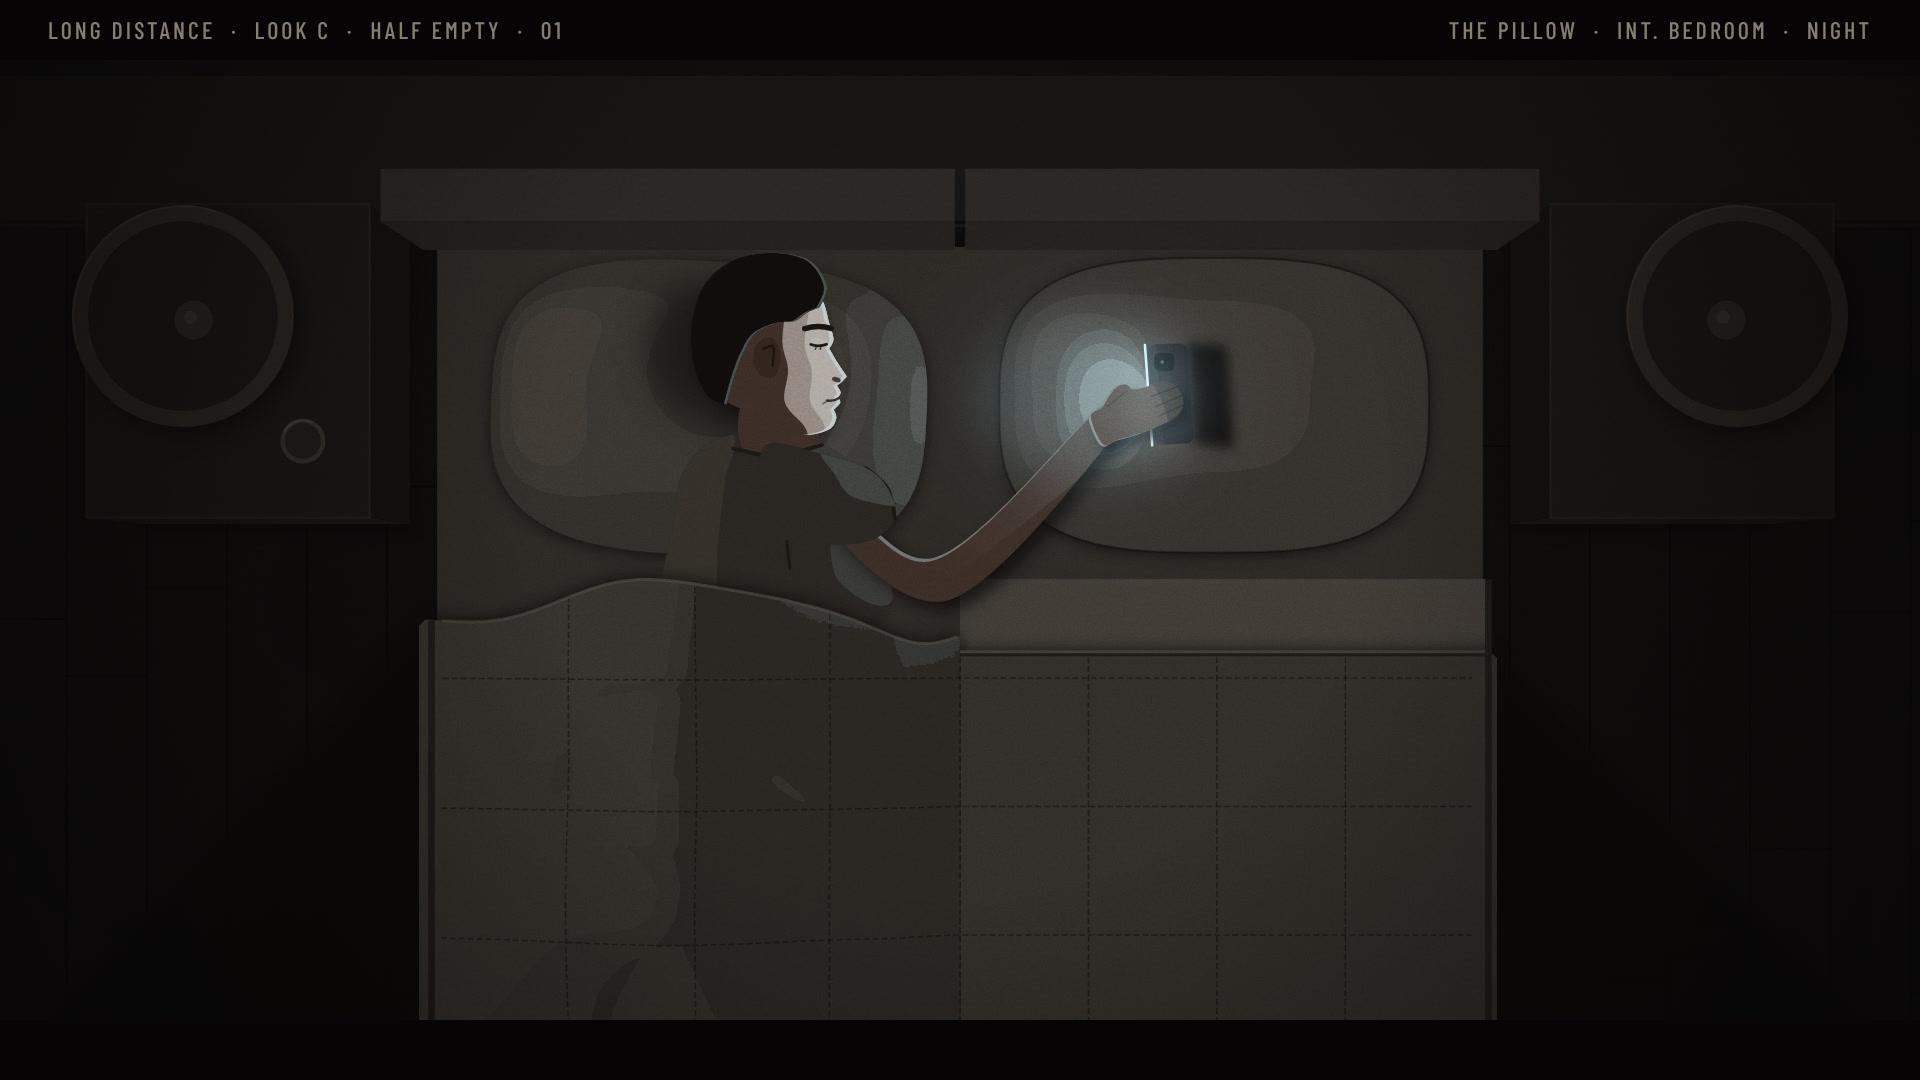
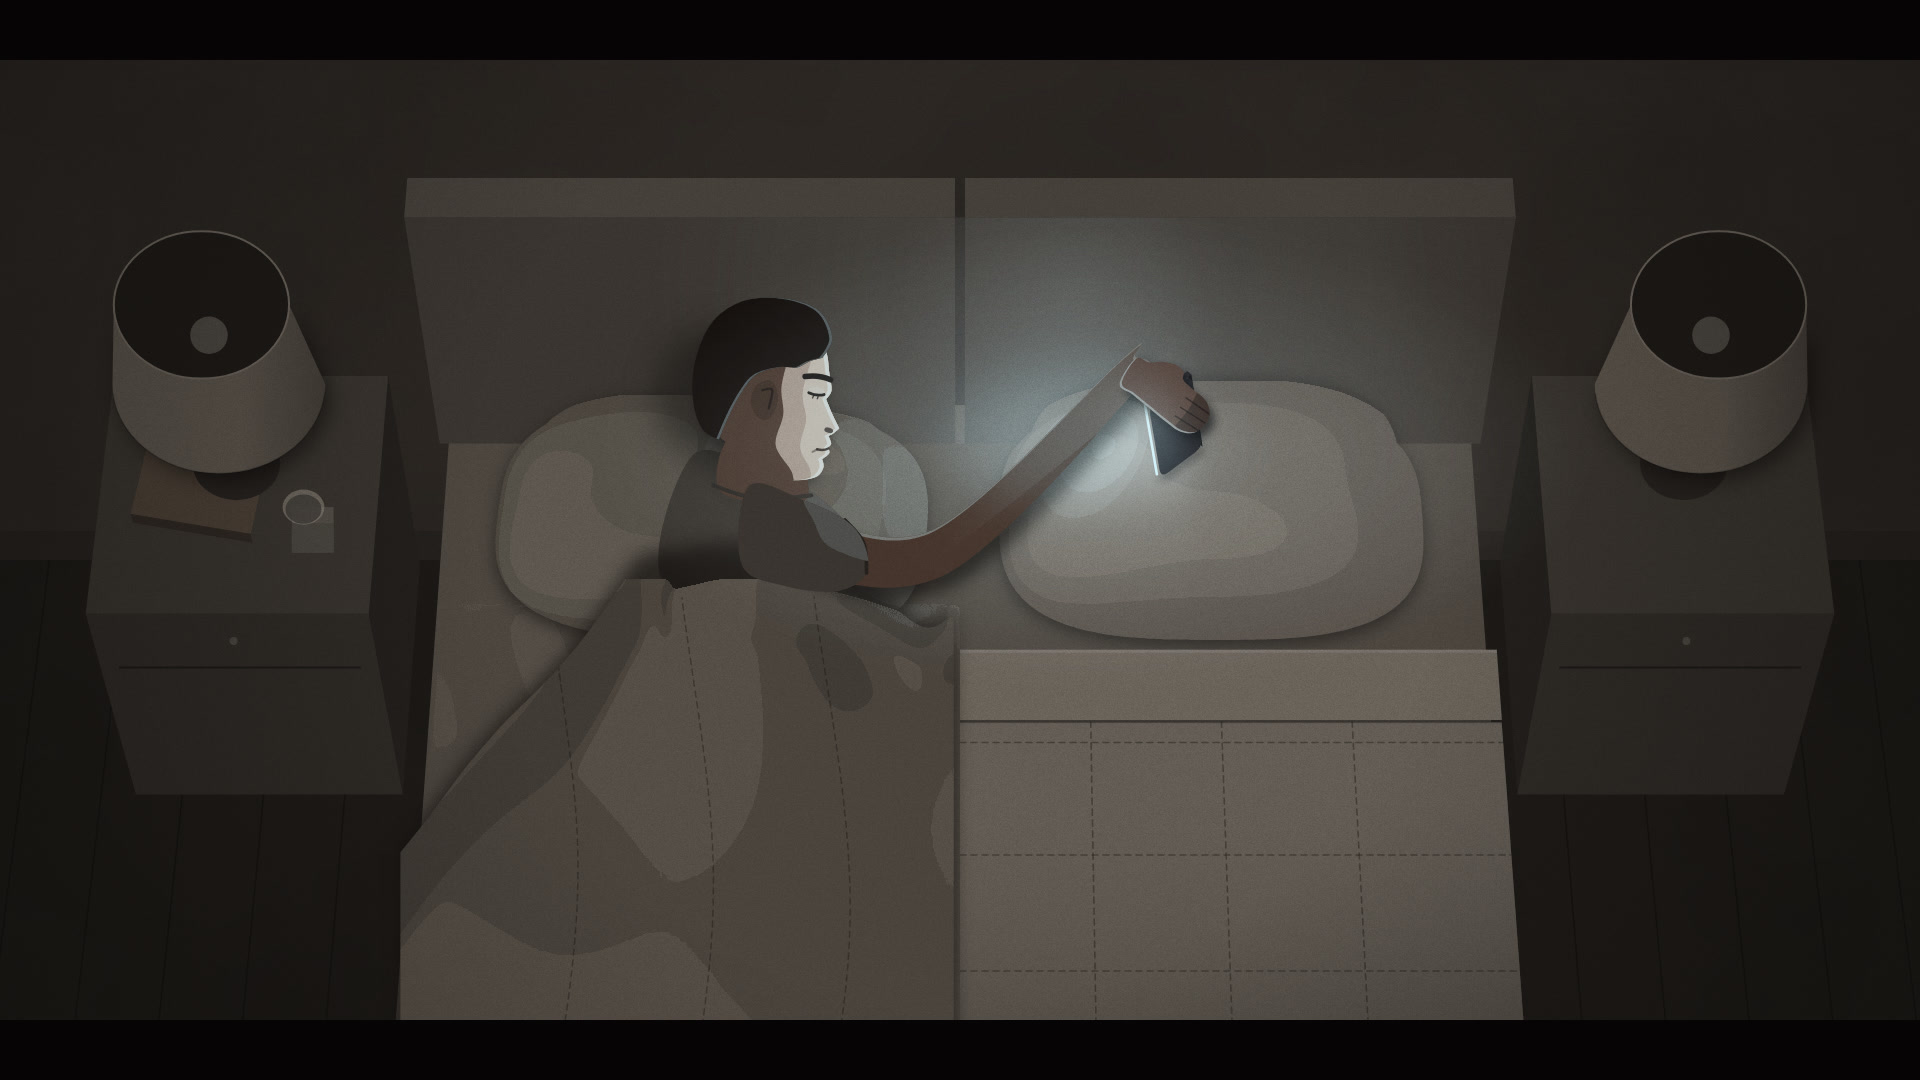
Long Distance: look C, fixes from the first review
No slates; plain 2.00:1 bars. C1: lifted, real lamps, the phone on her
pillow lighting his face, his half rucked and hers tight. C2: profile,
looking at the phone, pan at his chest; a larger, smoother phone image
against the flash-lit strip. C3: restaged with the screen toward him, a
full-strength subtitle, her hand at her nape, his skin and build matched.

Claude-Session: https://claude.ai/code/session_01A8JfgvUzR898ZAVoVKxaGp

diff --git a/claude-film/long-distance/src/C3_between.html b/claude-film/long-distance/src/C3_between.html
@@ -102,7 +102,7 @@
   LC.fill(g, lapF, SM.coatS); LC.fill(g, lapN, SM.coatL); WR(lapN, 1, -0.2, 2.5, LC.mix(SM.coatL, '#FFFFFF', 0.2));
   // her raised arm (her left, our right): attached at the shoulder, the upper arm rising out to the side, the elbow bent up by her head;
   // the forearm runs back behind her head to the nape (we see where it goes behind the hair)
-  const sleeveN = LC.smooth(Ls([[0.52, 0.86], [0.78, 0.62], [0.98, 0.32], [1.12, 0.06], [1.17, -0.06, 1], [1.02, -0.09], [0.78, -0.02], [0.44, 0.12], [0.44, 0.3], [0.76, 0.2], [0.94, 0.17], [0.88, 0.38], [0.72, 0.64], [0.6, 0.9]]));
+  const sleeveN = LC.smooth(Ls([[0.5, 0.86], [0.78, 0.6], [1.0, 0.3], [1.14, 0.04], [1.19, -0.08, 1], [1.02, -0.12], [0.78, -0.04], [0.44, 0.1], [0.44, 0.32], [0.74, 0.24], [0.9, 0.22], [0.84, 0.42], [0.66, 0.68], [0.56, 0.92]]));
   LC.fill(g, sleeveN, SM.coat); within(sleeveN, () => { LC.fill(g, LC.smooth(Ls([[0.86, 0.7], [1.4, 0.0], [1.4, -0.3], [1.1, -0.2], [0.98, 0.24], [0.78, 0.6]])), SM.coatL); LC.fill(g, LC.smooth(Ls([[0.4, 0.0], [1.0, -0.2], [1.0, 0.08], [0.4, 0.2]])), SM.coatS); });
   strokeQ(Ls, [[0.94, 0.17], [1.02, 0.08], [1.06, -0.02]], 'rgba(52,30,22,0.5)', 2);          // the crease where the sleeve folds at the elbow
   // the far arm (her right): the upper arm down and forward from the shoulder, a clear elbow, the forearm rising to a bent wrist and the phone
@@ -213,10 +213,10 @@
     LC.fill(g, skull, HM.skinS);
     within(skull, () => {
       LC.fill(g, LC.smooth(L([[-0.2, -0.62], [0.62, -0.62], [0.62, 0.62], [-0.02, 0.56], [-0.1, 0.42], [-0.18, 0.26], [-0.22, 0.1], [-0.2, -0.08], [-0.24, -0.3]])), HM.skin);
-      LC.fill(g, LC.smooth(L([[0.2, -0.42], [0.62, -0.42], [0.62, 0.52], [0.22, 0.46], [0.28, 0.24], [0.28, 0.02]])), LC.mix(HM.skinL, ICE, 0.42));            // the screen's light on the cheek turned toward her
+      { const Lr = LC.layer(); Lr.fillStyle = LC.mix(HM.skinL, ICE, 0.3); Lr.fill(LC.smooth(L([[0.22, -0.42], [0.62, -0.42], [0.62, 0.52], [0.24, 0.46], [0.3, 0.24], [0.3, 0.02]]))); g.drawImage(LC.blurred(Lr.canvas, 7, false), 0, 0); }            // the screen's light on the cheek turned toward her
       g.fillStyle = 'rgba(30,20,16,0.12)'; g.fill(LC.smooth(L([[-0.14, 0.36], [0.16, 0.38], [0.33, 0.34], [0.3, 0.46], [0.12, 0.53], [-0.12, 0.47]])));
       g.fillStyle = 'rgba(40,26,20,0.18)'; g.beginPath(); const so = L1(-0.03, -0.07); g.ellipse(so[0], so[1], 0.08 * hU, 0.04 * hU, 0.2, 0, 7); g.fill(); });
-    WR(skull, 1, 0.2, 4, LC.mix(HM.skinL, ICE, 0.75), { clip: (() => { const q = new Path2D(); const a = L1(0.15, -0.45); q.rect(a[0], a[1], 400, 400); return q; })() });
+    WR(skull, 1, 0.2, 3, LC.mix(HM.skinL, ICE, 0.55), { clip: (() => { const q = new Path2D(); const a = L1(0.15, -0.45); q.rect(a[0], a[1], 400, 400); return q; })() });
     const ear = LC.smooth(L([[-0.38, -0.07], [-0.29, -0.1], [-0.26, 0.02], [-0.28, 0.16], [-0.35, 0.17], [-0.4, 0.06]])); LC.fill(g, ear, HM.skinD);
     const hair = LC.smooth(L([[0.38, -0.25, 1], [0.4, -0.42], [0.25, -0.58], [-0.02, -0.64], [-0.29, -0.57], [-0.46, -0.36], [-0.49, -0.1], [-0.43, 0.12], [-0.37, 0.06], [-0.34, -0.12], [-0.24, -0.25], [-0.06, -0.33], [0.12, -0.32], [0.27, -0.33]]));
     LC.fill(g, hair, HM.hair); WR(hair, 1, -0.3, 4, HM.hairL);

diff --git a/claude-film/long-distance/design/look_c.md b/claude-film/long-distance/design/look_c.md
@@ -30,37 +30,37 @@ Style frames: `frames/C1_pillow.jpg`, `frames/C2_waterfall.jpg`, `frames/C3_betw
 
 ## Colour script
 
-1. **Night bedroom (opening, C1).** A plan, straight down over the bed. The room is warm black; the bed is a pale island; the only light is the phone on her pillow, low and cold, raking the folds of his half of the quilt and lighting his profile. Her half is dead flat, its stitched squares square.
+1. **Night bedroom (opening, C1).** A long lens high over the foot of the bed, dead centre. The room is warm dark grey; the bed is a pale island between two unlit lamps. His half of the quilt is rucked, its outer corner thrown back over a triangle of creased sheet. Her half is tight and square, the sheet turned down in a straight line. The only light is the phone, standing on her pillow with its back to us and its screen turned to his face; its cold light lands on his profile.
 2. **Bathroom mornings.** An elevation of the basin and mirror in flat pale warm grey (`#C9C1B5`). The glass of two toothbrushes sits on the centre line; his blue one is lifted out of his half, hers stays grey with dust in the empty half. The phone is propped against the mirror on her side; the message is the only cold in the room. "I love you." arrives before his thumb leaves the glass.
 3. **Grey office.** A wide, symmetrical elevation of open-plan dividers (`#8E877C`), with him small at his desk. When he turns the phone face down, the cold disappears from the film for the length of the shot.
 4. **Concrete stairwell.** A plan straight down the stairwell's square spiral (`#7A746C`), with him small on one step and the unopened lunch on the next. The empty half is the empty flight below. The screen's cold falls only on his chin and neck; see Restraint.
 5. **Evening bus.** The one crowded frame. Bodies fill both squares, coats in browns and greys, and the grammar is broken because he is not alone, only lonely. The cold is the crawling waveform. His ears take the film's one red (`#B5574A`), one flat step on the ear shape.
-6. **Living room at night (C2).** An elevation of the kitchen wall under one warm pendant. His half is lit and tiled; her half is dark plaster with the pale rectangle, two mugs, and the phone propped against the salt. The photo-booth strip and the waterfall hang mirrored either side of the centre line, and he has turned his back on the real one.
-7. **The visit, grey daylight (C3).** The same camera and the same wall. The light now comes from a window on her side, and for the first time the empty half is the bright one. She stands in it, in a rust coat, the only warm colour that has entered the flat from outside. The phone's cold is weak in daylight, a small screen in a real room.
+6. **Living room at night (C2).** An elevation of the kitchen wall under one warm pendant. His half is lit and tiled: he stands in profile at the counter, the pan held against his chest, the fork still, looking down at the phone with his mouth stopped on a mouthful. The photo-booth strip is on the fridge behind his back. Her half is dark plaster with the pale rectangle, two mugs, and the phone propped against the salt, turned to him and to us; it is the brightest and smoothest thing in the frame.
+7. **The visit, grey daylight (C3).** The same wall on the same axis, the camera pulled back. The light now comes from a window on her side, and for the first time the empty half is the bright one. She stands in it, in front of the pale rectangle, in a rust coat, the only warm colour that has entered the flat from outside, and holds the phone out to him at the centre line with its screen turned to his face. He stands nearer us in his own half, turned away, head down over the bag. The phone's cold is weak in daylight, but it still lands on his face.
 8. **The last image, the couch.** An elevation of the couch against the same wall at dusk. He lies along his half; the phone rests on the cushion in the empty half beside his face, where a head would be: C1 turned through ninety degrees. The daylight drains out until the screen is again the only light, and he lies down inside it. The strip on the fridge behind him stays in the room's last warm grey.
 
 ## Characters
 
-- **Him.** Thirties, gentle, ordinary. Dark brown hair a few weeks past a haircut, a day's stubble, a soft jaw. An oat cotton shirt worn a day too long: open collar, sleeves rolled, creased across the back. He is drawn with the same profile in all three frames. In C1 we see him from above and he is a profile on the pillow. In C2 we see his back and a lost profile, the line of cheek and jaw catching the screen. In C3 he is three-quarters, eyes down, brows lifted at the inner ends: shame, not menace. His hands carry it: the hand laid over the phone like a hand on a sleeping shoulder; the pan lowered and forgotten; the thumb on the broken zip.
+- **Him.** Thirties, gentle, ordinary. Dark brown hair a few weeks past a haircut, a day's stubble, a soft jaw. An oat cotton shirt worn a day too long: open collar, sleeves rolled, creased across the back. He is drawn with the same profile in all three frames. He has deep brown skin and a heavy build in all three frames. In C1 he is a profile on the pillow seen from above the foot of the bed. In C2 he is in profile, his mouth stopped mid-chew. In C3 he is three-quarters, eyes down, brows lifted at the inner ends: shame, not menace. His hands carry it: the hand laid over the phone like a hand on a sleeping shoulder; the pan lowered and forgotten; the thumb on the broken zip.
 - **Her, two ages, one face.** In the pictures (the strip, the waterfall, the app portrait) she is younger: long dark hair, centre-parted, past her shoulders, laughing. In person she is the same face, older by exactly the time that has passed: a blunt bob cut above the jaw and parted on the side, a little tiredness under the eyes, the mouth level and held. She keeps on a rust wool coat with a dark turtleneck, the bag strap across her. When she lifts her hand to her nape, only her fingers show, under the blunt ends of hair that used to fall there.
 - **The two kinds of image.**
   - *The photo-booth strip is a print.* It takes the light of the room it is in: it is multiplied by the room's colour, warm under the pendant and grey by day, and it never glows. It has grain, cheap-flash falloff (hot foreheads, dark corners), a hard flash shadow on the curtain, a crooked crop in every frame, a little motion blur in frame 3, a curl at the bottom and a magnet.
-  - *The waterfall and the app's portrait are generated, and they make their own light.* They are drawn into the emissive layer, so they halate. There is no grain anywhere in them, the composition is mirror-symmetrical, one soft key lights both faces identically with no shadow, the skin is a pure gradient and the water is pure white. The faces and the pose are those of the strip's last frame, her head tipped against his.
+  - *The waterfall and the app's portrait are generated, and they make their own light.* They are drawn into the emissive layer, so they halate. There is no grain anywhere in them, the composition is mirror-symmetrical, one soft key lights both faces identically with no shadow, the skin is a pure gradient and the water is pure white. It is also rendered more smoothly than anything else in the film: softened, with an even halo on both heads. The faces and the pose are those of the strip's last frame, her head tipped against his.
   - On a first watch it is a nice photo on a bright phone. On a second, the strip is the only picture in the film that is lit by the room, and you cannot stop seeing it.
 
 ## Screens, messages, subtitles
 
 - **Screens are objects in the set, never overlays.** The phone's content is always mapped onto the glass in true perspective, inside the shot. When a message must be read, the shot is an insert that keeps the grammar: the phone fills one square, and the other square is empty table, sink or cushion.
 - **Messages** are plain grey and white bubbles with no app branding. The contact is a single heart, ♥, as its name. The lock screen has a thin clock, the date and one banner, and the waterfall wallpaper never changes after he sets it.
-- **Subtitles** are set in Libre Franklin 500 at 40 px (1080p), bone white with a soft dark halo, at most two lines, centred at the bottom inside the 2.00:1 picture. Each subtitle opens with its speaker's name, as film subtitles do: "Him: …", "Her: …", in a muted warm grey. The phone's voice is labelled "Her:" exactly like the woman, so the label never gives the twist away.
+- **Subtitles** are set in Libre Franklin at 40 px (1080p), white at full strength on a soft dark backing with a shadow, so they read on any background. There are at most two lines, centred at the bottom inside the 2.00:1 picture. Each subtitle opens with its speaker's name in bold, as film subtitles do: "Him: …", "Her: …". The phone's voice is labelled "Her:" exactly like the woman, so the label never gives the twist away.
 
 ## How the twist stays hidden, then lands
 
 The grammar is the disguise. For the first two-thirds of the film, the phone placed in the empty half reads as the oldest film convention for separation: she is far away, so her half is empty and only her voice is there. The audience accepts it as a long-distance relationship because the frames are built like one.
 
-Every clue sits inside that same grammar, in the empty half, in plain sight. The second toothbrush is grey with dust and the second mug has a ring of dust around it. The hangers on her side are bare, a rectangle of wall is pale where a frame used to hang, and the generated waterfall hangs mirrored with the real strip across the centre line. Answers arrive before the cut. Nothing points at any of it; it is simply in the half the audience has learned to read as hers.
+Every clue sits inside that same grammar, in the empty half, in plain sight. The second toothbrush is grey with dust and the second mug has a ring of dust around it. The hangers on her side are bare, a rectangle of wall is pale where a frame used to hang, and the generated waterfall faces the real strip across the centre line. Answers arrive before the cut. Nothing points at any of it; it is simply in the half the audience has learned to read as hers.
 
-The landing is a change of light, not a reveal. Her visit is shot with the same camera, from the same wall, as the waterfall night, but the light now comes from her side. Then the one rule of the film breaks: a person stands in the empty half. And what she holds up in it is the phone, and on it is her own younger face. The substitution is shown literally, with no explanation. After she leaves, the last shot puts the phone back in the empty half beside his head, and the audience reads the convention they trusted for seven minutes in reverse.
+The landing is a change of light, not a reveal. Her visit is shot on the same wall, on the same axis, as the waterfall night, but the light now comes from her side. Then the one rule of the film breaks: a person stands in the empty half. And what she holds up in it is the phone, and on it is her own younger face. The substitution is shown literally, with no explanation. After she leaves, the last shot puts the phone back in the empty half beside his head, and the audience reads the convention they trusted for seven minutes in reverse.
 
 ## The stairwell's restraint
 
